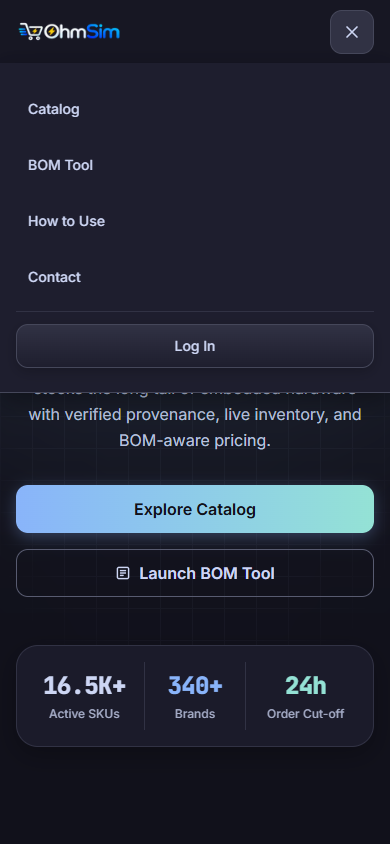
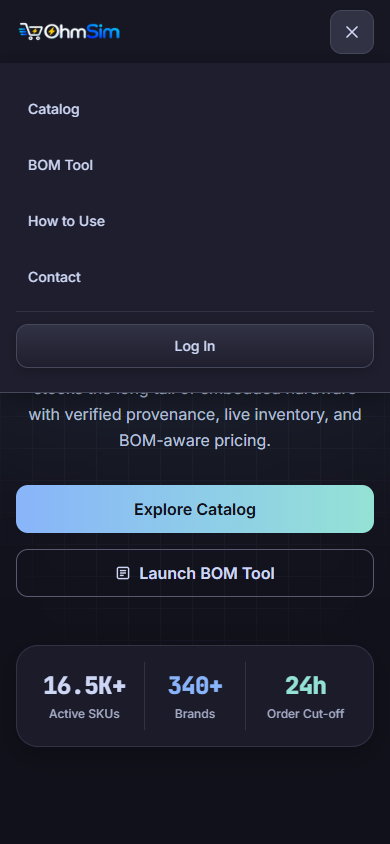
style: remove colored glow shadow from button variants

Changed region(s): [[0.0308, 0.5853, 0.9538, 0.6469], [0.9538, 0.5853, 0.9846, 0.6161]]

diff --git a/components/ui/button.tsx b/components/ui/button.tsx
@@ -37,13 +37,13 @@ export function getButtonClasses(
 
   const variantClasses: Record<ButtonVariant, string> = {
     raised:
-      "bg-gradient-to-b from-mocha-panel-raised to-mocha-panel text-mocha-text border border-mocha-panel-high shadow-[0_4px_12px_rgba(0,0,0,0.2)] hover:border-mocha-accent hover:text-mocha-text hover:shadow-[0_6px_16px_rgba(137,180,250,0.15)] active:translate-y-[1px]",
+      "bg-gradient-to-b from-mocha-panel-raised to-mocha-panel text-mocha-text border border-mocha-panel-high shadow-[0_4px_12px_rgba(0,0,0,0.2)] hover:border-mocha-accent hover:text-mocha-text active:translate-y-[1px]",
     surface:
       "bg-mocha-panel text-mocha-text border border-mocha-border hover:bg-mocha-panel-raised hover:border-mocha-panel-high active:translate-y-[1px]",
     outline:
       "bg-transparent text-mocha-text border border-mocha-border-strong hover:border-mocha-accent hover:text-mocha-accent active:translate-y-[1px]",
     accent:
-      "bg-gradient-to-r from-mocha-accent to-mocha-accent-secondary text-mocha-bg font-bold border-none shadow-[0_4px_16px_rgba(137,180,250,0.3)] hover:brightness-110 hover:shadow-[0_6px_20px_rgba(137,180,250,0.45)] active:translate-y-[1px]",
+      "bg-gradient-to-r from-mocha-accent to-mocha-accent-secondary text-mocha-bg font-bold border-none hover:brightness-110 active:translate-y-[1px]",
   };
 
   return `${baseClasses} ${sizeClasses[size]} ${variantClasses[variant]} ${className}`.trim();
